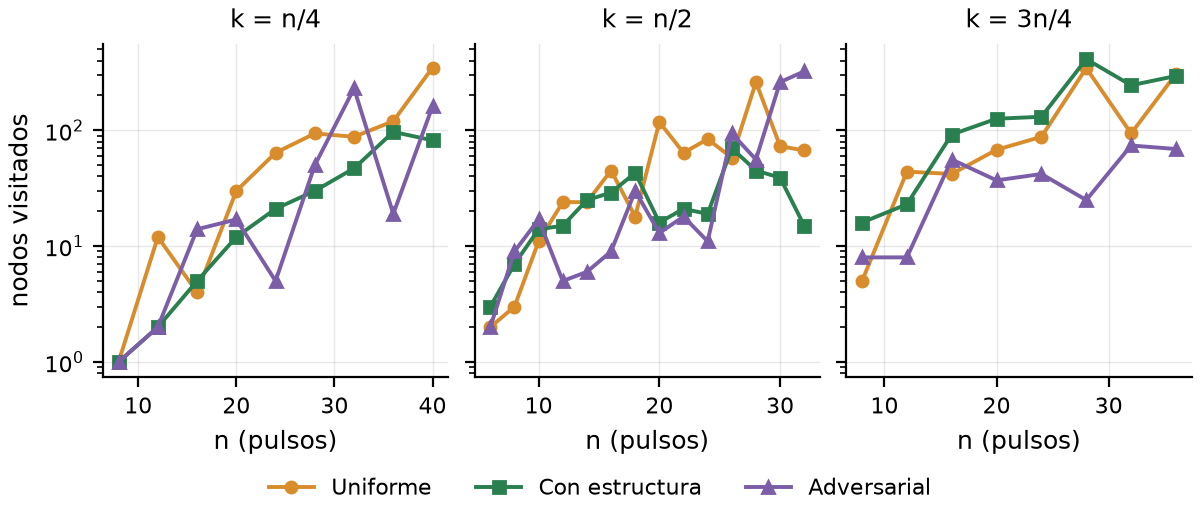
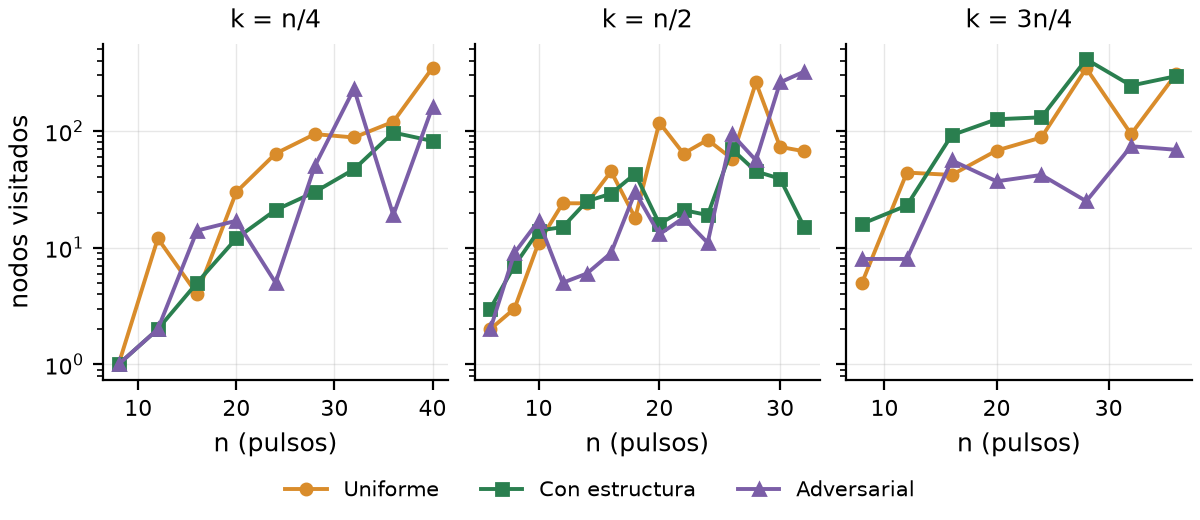
feat(experimentos): ajustes de figuras y leyendas

diff --git a/TP1/python/experimentos.py b/TP1/python/experimentos.py
@@ -492,25 +492,40 @@ def figuras_e1():
 
     # Pregunta: hasta que n llega cada exacto con k = n/2 y como crece el tiempo,
     # contrastando FB con su cota C(n-2, k-2) k d (misma constante en los tres paneles).
-    fig, ejes = fg.figura(paneles=3)
+    # Un solo panel: FB y PD hacen el mismo trabajo en las tres familias, asi que se
+    # dibujan una vez (familia con estructura) y solo BT lleva un marcador por familia.
+    # El ancho fisico (3,2 pulgadas) es el que ocupa en el informe, para que las fuentes
+    # de 8 a 9 pt se impriman a ese tamano.
+    fig, ejes = fg.figura(paneles=1, ancho=3.2, alto=2.1)
+    ax = ejes[0]
     c_fb = constante_modelo_fb(filas_ok(filas, regimen="n/2", algoritmo="fb"))
-    for ax, familia in zip(ejes, FAMILIAS):
-        for algoritmo in ["fb", "bt", "pd"]:
-            puntos = filas_ok(filas, familia=familia, regimen="n/2", algoritmo=algoritmo)
-            puntos.sort(key=lambda f: int(f["n"]))
-            if not puntos:
-                continue
-            ns = [int(f["n"]) for f in puntos]
-            fg.serie(ax, ns, [float(f["ms"]) for f in puntos], algoritmo)
-            if algoritmo == "fb":
-                ax.plot(ns, [c_fb * modelo_fb(int(f["n"]), int(f["k"]), int(f["d"])) for f in puntos],
-                        "--", color=fg.PALETA["modelo"], linewidth=1.0, marker=None,
-                        label="Modelo FB")
-        ax.set_yscale("log")
-        ax.set_xlabel("n (pulsos)")
-        ax.set_title(fg.FAMILIAS_TITULO[familia])
-    ejes[0].set_ylabel("tiempo (ms)")
-    fg.leyenda_abajo(fig, ejes[0], columnas=4)
+    manejadores = []
+    for algoritmo in ["fb", "pd"]:
+        puntos = filas_ok(filas, familia="estructura", regimen="n/2", algoritmo=algoritmo)
+        puntos.sort(key=lambda f: int(f["n"]))
+        if not puntos:
+            continue
+        ns = [int(f["n"]) for f in puntos]
+        manejadores.append(ax.plot(ns, [float(f["ms"]) for f in puntos], "-", color=fg.PALETA[algoritmo],
+                                   label=fg.ETIQUETAS[algoritmo])[0])
+        if algoritmo == "fb":
+            # La cota va sin entrada en la leyenda: el caption la describe.
+            ax.plot(ns, [c_fb * modelo_fb(int(f["n"]), int(f["k"]), int(f["d"])) for f in puntos],
+                    "--", color=fg.PALETA["modelo"], linewidth=1.0)
+    for familia in FAMILIAS:
+        puntos = filas_ok(filas, familia=familia, regimen="n/2", algoritmo="bt")
+        puntos.sort(key=lambda f: int(f["n"]))
+        if not puntos:
+            continue
+        linea = ax.plot([int(f["n"]) for f in puntos], [float(f["ms"]) for f in puntos], "-",
+                        color=fg.PALETA["bt"], marker=fg.MARCADORES[familia], markersize=3.5, alpha=0.9)[0]
+        if familia == FAMILIAS[0]:
+            from matplotlib.lines import Line2D
+            manejadores.insert(1, Line2D([], [], color=fg.PALETA["bt"], label=fg.ETIQUETAS["bt"]))
+    ax.set_yscale("log")
+    ax.set_xlabel("n (pulsos), k = n/2")
+    ax.set_ylabel("tiempo (ms)")
+    fg.leyenda_abajo_manejadores(fig, manejadores + fg.manejadores_familias(), columnas=2)
     fg.guardar(fig, "e1_tiempo_vs_n")
 
     # Pregunta: como cambia el tiempo de FB y de PD con el regimen de k. Se grafica la
@@ -637,6 +652,42 @@ def resumen_e2(filas):
     tabla.copiar_a_datos()
 
 
+def figura_e2_vs_n(filas):
+    """Nodos visitados contra n con k = n/2 en un solo panel del ancho que ocupa en el
+    informe. Sin podas y con solo factibilidad la cuenta es exacta e igual en las tres
+    familias, asi que se dibuja una vez; con optimalidad el color da la configuracion y
+    el marcador la familia."""
+    import figuras as fg
+    from math import comb
+    from matplotlib.lines import Line2D
+    pares = sorted({(int(f["n"]), int(f["k"])) for f in filas_ok(filas, serie="vs_n")})
+    if not pares:
+        return
+    fig, ejes = fg.figura(paneles=1, ancho=3.45, alto=2.3)
+    ax = ejes[0]
+    xs = [p[0] for p in pares]
+    ax.plot(xs, [nodos_bt_teoricos(n, k, False) for n, k in pares], "--", color=fg.PALETA["modelo"],
+            linewidth=1.0, zorder=1)
+    ax.plot(xs, [comb(n - 2, k - 2) for n, k in pares], ":", color=fg.PALETA["modelo"], linewidth=1.2, zorder=1)
+    manejadores = []
+    for configuracion in CONFIGURACIONES_BT:
+        familias = [FAMILIAS[1]] if configuracion in ("ninguna", "factibilidad") else FAMILIAS
+        for familia in familias:
+            puntos = filas_ok(filas, familia=familia, serie="vs_n", configuracion=configuracion)
+            puntos.sort(key=lambda f: int(f["n"]))
+            if not puntos:
+                continue
+            marcador = fg.MARCADORES[familia] if len(familias) > 1 else None
+            ax.plot([int(f["n"]) for f in puntos], [int(f["nodos"]) for f in puntos], "-",
+                    color=fg.PALETA[configuracion], marker=marcador, markersize=3.5, alpha=0.9)
+        manejadores.append(Line2D([], [], color=fg.PALETA[configuracion], label=fg.ETIQUETAS[configuracion]))
+    ax.set_yscale("log")
+    ax.set_xlabel("n (pulsos), k = n/2")
+    ax.set_ylabel("nodos visitados")
+    fg.leyenda_abajo_manejadores(fig, manejadores + fg.manejadores_familias(), columnas=3)
+    fg.guardar(fig, "e2_nodos_vs_n")
+
+
 def figuras_e2():
     filas = leer_csv("e2_podas.csv")
     if not filas:
@@ -647,7 +698,8 @@ def figuras_e2():
     # Pregunta: cuantos nodos ahorra cada poda (vs n con k = n/2, y vs k con n = 24) y si
     # depende de la familia. Las referencias son la cuenta exacta de nodos sin podas y la
     # cantidad de hojas factibles C(n-2, k-2), que es lo que enumera fuerza bruta.
-    for serie, variable, nombre in [("vs_n", "n", "e2_nodos_vs_n"), ("vs_k", "k", "e2_nodos_vs_k")]:
+    figura_e2_vs_n(filas)
+    for serie, variable, nombre in [("vs_k", "k", "e2_nodos_vs_k")]:
         fig, ejes = fg.figura(paneles=3)
         for ax, familia in zip(ejes, FAMILIAS):
             pares = sorted({(int(f["n"]), int(f["k"])) for f in filas_ok(filas, familia=familia, serie=serie)})
@@ -775,33 +827,33 @@ def figuras_e3():
     # memoria pico como k (n-k+1).
     puntos = sorted(filas_ok(filas, serie="vs_n"), key=lambda f: int(f["n"]))
     if len(puntos) >= 2:
-        fig, ejes = fg.figura(paneles=2, compartir_y=False)
+        # Ancho fisico igual al que ocupa en el informe (0,62 del ancho de texto).
+        fig, ejes = fg.figura(paneles=2, compartir_y=False, ancho=3.9, alto=1.8)
         ns = [int(f["n"]) for f in puntos]
         ms = [float(f["ms"]) for f in puntos]
         escala = escala_modelo(puntos)
         _, pendiente, _ = ajuste_lineal([math.log(n) for n in ns], [math.log(m) for m in ms])
-        fg.serie(ejes[0], ns, [m / 1000 for m in ms], "pd", etiqueta="medido (mediana de 3)")
+        fg.serie(ejes[0], ns, [m / 1000 for m in ms], "pd", etiqueta="medido")
         ejes[0].plot(ns, [escala * float(f["modelo_ops"]) / 1000 for f in puntos], "--",
-                     color=fg.PALETA["modelo"], label=etiqueta_modelo)
+                     color=fg.PALETA["modelo"], label="modelo ajustado")
         # Ticks en potencias redondas: 750 y 1000 se pisan si se etiquetan los n medidos.
-        fg.eje_x_log(ejes[0], [n for n in ns if n in (250, 500, 1000, 2000, 3000)] or ns)
+        fg.eje_x_log(ejes[0], [n for n in ns if n in (250, 500, 1000, 3000)] or ns)
         ejes[0].set_yscale("log")
         from matplotlib.ticker import FuncFormatter
         ejes[0].yaxis.set_major_formatter(FuncFormatter(lambda v, _: ("{:g}".format(v)).replace(".", ",")))
         ejes[0].set_xlabel("n (pulsos), k = n/2")
         ejes[0].set_ylabel("tiempo (s)")
-        ejes[0].text(0.97, 0.05, "pendiente log-log: {:.2f}".format(pendiente).replace(".", ","),
+        ejes[0].text(0.97, 0.05, "pendiente: {:.2f}".format(pendiente).replace(".", ","),
                      transform=ejes[0].transAxes, ha="right", va="bottom", fontsize=8)
         fg.leyenda(ejes[0], loc="upper left")
         memorias = memorias_de(puntos, "n")
         if memorias:
-            fg.serie(ejes[1], [m[0] for m in memorias], [m[1] for m in memorias], "pd", etiqueta="medido (maxrss)")
+            fg.serie(ejes[1], [m[0] for m in memorias], [m[1] for m in memorias], "pd", etiqueta="medido")
             ajuste = modelo_memoria(puntos)
             if ajuste:
                 base, por_estado, _ = ajuste
                 ejes[1].plot(ns, [base + por_estado * int(f["k"]) * (int(f["n"]) - int(f["k"]) + 1) for f in puntos],
-                             "--", color=fg.PALETA["modelo"],
-                             label="{:.1f} MB + {:.1f} B · k(n-k+1)".format(base, por_estado * 2 ** 20).replace(".", ","))
+                             "--", color=fg.PALETA["modelo"], label="ajuste lineal")
         ejes[1].set_xlabel("n (pulsos), k = n/2")
         ejes[1].set_ylabel("memoria pico (MB)")
         ejes[1].set_ylim(bottom=0)
@@ -943,7 +995,9 @@ def figuras_e4():
 
     cocientes = leer_csv("e4_cocientes.csv")
     if cocientes:
-        fig, ejes = fg.figura(paneles=1)
+        # Ancho fisico igual al que ocupa en el informe (0,42 del ancho de texto); las
+        # medianas van en el caption.
+        fig, ejes = fg.figura(paneles=1, ancho=2.65, alto=2.2)
         for algoritmo in ["bt", "pd"]:
             puntos = sorted([f for f in cocientes if f["algoritmo"] == algoritmo], key=lambda f: int(f["n"]))
             if not puntos:
@@ -954,7 +1008,6 @@ def figuras_e4():
             if estables:
                 mediana = statistics.median(estables)
                 ejes[0].axhline(mediana, color=fg.PALETA[algoritmo], linestyle=":", linewidth=1.0, alpha=0.8)
-                etiqueta += " (mediana {:.0f} para n ≥ 100)".format(mediana)
             fg.serie(ejes[0], [int(f["n"]) for f in puntos], [float(f["cociente"]) for f in puntos],
                      algoritmo, etiqueta=etiqueta)
         fg.eje_x_log(ejes[0], [int(f["n"]) for f in cocientes])
@@ -1128,7 +1181,8 @@ def figura_estructura(base, costos, seleccion, fronteras=None):
     import numpy as np
     import figuras as fg
     n = costos.shape[1]
-    fig, ejes = fg.figura(paneles=1, ancho=5.0, alto=4.8)
+    # Ancho fisico igual al que ocupa en el informe (0,42 del ancho de texto).
+    fig, ejes = fg.figura(paneles=1, ancho=2.65, alto=2.3)
     ax = ejes[0]
     ax.grid(False)
     # fila i (base 1, 1..n-1) y columna j (1..n): distancia entre el pulso que deberia
@@ -1164,7 +1218,7 @@ def figura_estructura(base, costos, seleccion, fronteras=None):
                                                      if segundos[0] - 1 <= t <= segundos[-1]]))
         arriba.set_xlabel("tiempo en la grabación (s)")
     if manejadores:
-        fig.legend(handles=manejadores, loc="outside lower center", ncol=2)
+        fig.legend(handles=manejadores, loc="outside lower center", ncol=1)
     fg.guardar(fig, "e5_estructura_" + base)
 
 
@@ -1180,7 +1234,12 @@ def figuras_e5():
     orden = list(AUDIO_DE)
     claves = sorted(set((f["nombre"], f["caracteristicas"]) for f in filas),
                     key=lambda c: (c[1] != "croma", orden.index(c[0]) if c[0] in orden else 99))
-    etiquetas = [nb.replace("_", " ") + (" (mfcc)" if car == "mfcc" else "") for nb, car in claves]
+    # Nombres cortos para que las etiquetas rotadas no se coman el alto del panel.
+    cortos = {"action": "Action", "ascending_the_vale": "Asc. the Vale", "batty_mcfaddin": "Batty McF.",
+              "hgf_corta": "HGF corta", "hgf_media": "HGF media", "hgf_larga": "HGF larga",
+              "suspense": "Suspense"}
+    etiquetas = [cortos.get(nb, nb.replace("_", " ")) + (" (MFCC)" if car == "mfcc" else "")
+                 for nb, car in claves]
 
     def valor(nombre, car, proporcion, columna):
         fila = [f for f in filas if f["nombre"] == nombre and f["caracteristicas"] == car
@@ -1188,7 +1247,8 @@ def figuras_e5():
         return float(fila[0][columna]) if fila else np.nan
 
     if claves:
-        fig, ejes = fg.figura(paneles=2, compartir_y=False, alto=3.1)
+        # Ancho fisico igual al que ocupa en el informe (0,55 del ancho de texto).
+        fig, ejes = fg.figura(paneles=2, compartir_y=False, ancho=3.45, alto=2.7)
         ancho = 0.27
         x = np.arange(len(claves))
         for desplazamiento, proporcion, alfa in zip([-ancho, 0, ancho], PROPORCIONES_E5, fg.ALFAS_TRES):
@@ -1197,13 +1257,13 @@ def figuras_e5():
             vs_uniforme = [valor(nb, car, proporcion, "costo_uniforme") / valor(nb, car, proporcion, "costo_optimo")
                            for nb, car in claves]
             ejes[0].bar(x + desplazamiento, vs_truncar, width=ancho, color=fg.PALETA["optimo"], alpha=alfa,
-                        label="k = {:.0f} % de n".format(100 * proporcion))
+                        label="k = {:.0f} %".format(100 * proporcion))
             ejes[1].bar(x + desplazamiento, vs_uniforme, width=ancho, color=fg.PALETA["optimo"], alpha=alfa)
         ejes[0].axhline(1, color=fg.PALETA["truncar"], lw=0.8, ls="--")
-        ejes[0].set_ylabel("costo óptimo / truncar")
+        ejes[0].set_ylabel("óptimo / truncar")
         ejes[0].set_ylim(0, 1.05)
         ejes[1].set_yscale("log")
-        ejes[1].set_ylabel("costo uniforme / óptimo")
+        ejes[1].set_ylabel("uniforme / óptimo")
         for ax in ejes:
             ax.set_xticks(x)
             ax.set_xticklabels(etiquetas, rotation=60, ha="right", fontsize=7)
@@ -1321,11 +1381,13 @@ def figuras_e6():
 
     # Pregunta: hasta que n llega cada exacto en un tema real y si el tiempo sigue
     # el modelo de operaciones de cada uno (FB: C(n-2,k-2) k d; PD: (k-2)(n-k+1)^2 d).
-    fig, ejes = fg.figura(paneles=1, alto=3.6)
+    # Ancho fisico igual al que ocupa en el informe (0,47 del ancho de texto); las
+    # formulas de los modelos van en el caption.
+    fig, ejes = fg.figura(paneles=1, ancho=3.0, alto=2.1)
     ax = ejes[0]
     # (modelo, n minimo del ajuste, n desde donde se dibuja, etiqueta)
-    modelos = {"fb": (modelo_fb, 16, 12, "modelo FB, C(n-2,k-2) k d"),
-               "pd": (modelo_pd, 100, 40, "modelo PD, (k-2)(n-k+1)² d")}
+    modelos = {"fb": (modelo_fb, 16, 12, "modelo FB"),
+               "pd": (modelo_pd, 100, 40, "modelo PD")}
     for algoritmo in ["fb", "bt", "pd"]:
         puntos = puntos_de(algoritmo)
         if not puntos:
@@ -1342,9 +1404,9 @@ def figuras_e6():
     ax.set_yscale("log")
     ns_todos = sorted(set(int(f["n"]) for f in filas_ok(filas)))
     fg.eje_x_log(ax, [n for n in ticks if ns_todos[0] <= n <= ns_todos[-1] * 1.1])
-    ax.set_xlabel("n (primeros pulsos de {}), k = 0,7 n".format(INSTANCIA_E6.replace("_", " ")))
+    ax.set_xlabel("n (primeros pulsos), k = 0,7 n")
     ax.set_ylabel("tiempo (ms)")
-    fg.leyenda_abajo(fig, ax, columnas=3)
+    fg.leyenda_abajo(fig, ax, columnas=2)
     fg.guardar(fig, "e6_tiempos_reales")
 
     # Pregunta: por que BT es erratico en el tema real. Nodos visitados y cociente

diff --git a/TP1/python/figuras.py b/TP1/python/figuras.py
@@ -74,7 +74,7 @@ plt.rcParams.update({
     "font.size": 9,
     "axes.labelsize": 9,
     "axes.titlesize": 9,
-    "legend.fontsize": 8,
+    "legend.fontsize": 7.5,
     "xtick.labelsize": 8,
     "ytick.labelsize": 8,
     "lines.linewidth": 1.4,
@@ -127,6 +127,21 @@ def leyenda_abajo(fig, ax, columnas=None):
     if manejadores:
         fig.legend(manejadores, etiquetas, loc="outside lower center",
                    ncol=columnas or len(manejadores))
+
+
+def manejadores_familias():
+    """Entradas de leyenda en negro, una por familia sintetica, cuando el color ya
+    codifica otra cosa (algoritmo o configuracion de podas) y el marcador la familia."""
+    from matplotlib.lines import Line2D
+    return [Line2D([], [], color="#333333", linestyle="none", marker=MARCADORES[familia],
+                   markersize=4, label=FAMILIAS_TITULO[familia])
+            for familia in ["uniforme", "estructura", "adversarial"]]
+
+
+def leyenda_abajo_manejadores(fig, manejadores, columnas):
+    """Leyenda unica debajo del panel a partir de manejadores explicitos."""
+    fig.legend(handles=manejadores, loc="outside lower center", ncol=columnas,
+               handlelength=1.6, columnspacing=1.0)
 
 
 def eje_x_log(ax, valores):
